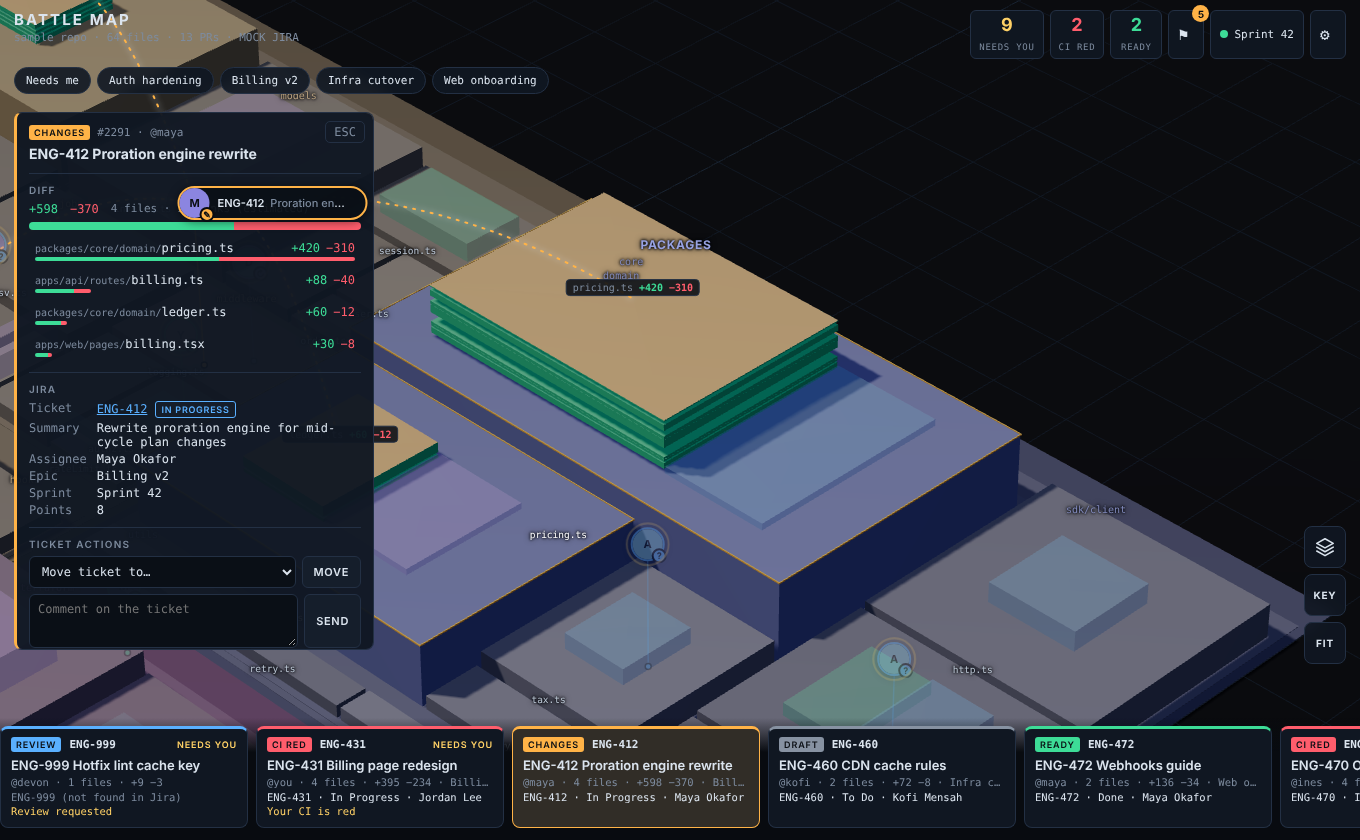
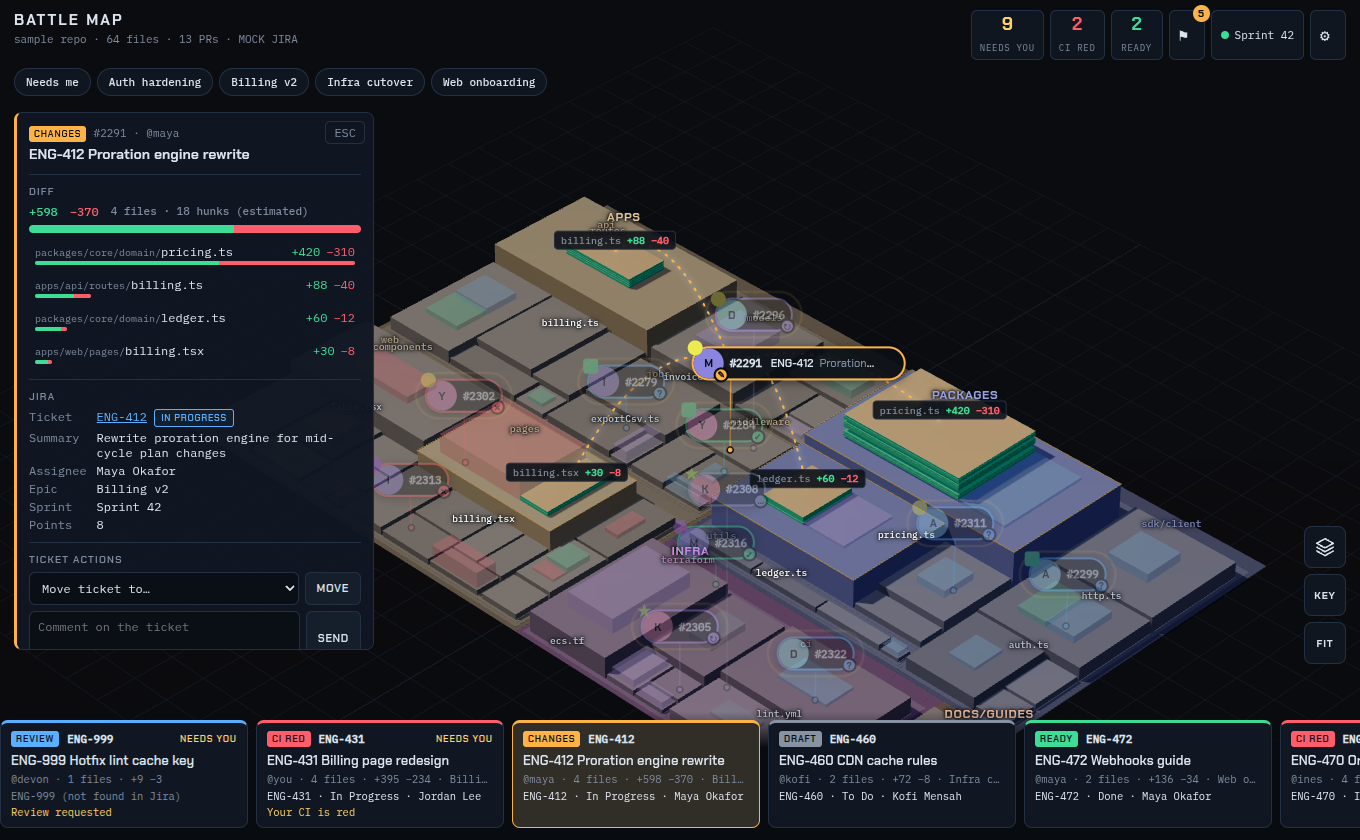
Docs: refresh screenshots and README for flags and tracking
Regenerated all screenshots (flags now show PR numbers and epic emblems,
the Layers menu has the watched-file toggle) and added two for opt-in
tracking: the map with the WATCHING pill, cyan rims and rule tags, and the
track dialog. Screenshots come from e2e/shot2.mjs, which now writes to
SHOTS_DIR instead of a hardcoded /tmp, can set up tracking scenes (feed,
rule, pick) and uses the declared Playwright dependency. README: new
tracking section, development notes for e2e, TMPDIR and CI.

diff --git a/README.md b/README.md
@@ -104,12 +104,16 @@ web/main.js             panels, settings, Jira actions
 
 ## Choosing what to track
 
+![Opt-in tracking: the WATCHING pill, cyan rims on watched files, and a rule tag on each card](docs/screenshots/tracking.png)
+
 The feed is the pool of everything open; the map only draws what you track, so a busy monorepo stays readable. Your own PRs (Settings > Display > Identity) are always tracked. Everything else is opt-in, from **+ TRACK PRS** at the end of the PR tray:
 
 * **By link.** Paste a PR URL, `#123` or a number. If the PR is not in the feed yet, it is tracked as soon as it shows up.
 * **By author.** "Track everything maya opens", from the list or a rule.
 * **By path.** "Track any PR that touches `packages/billing/`". A plain path covers that file or folder, `*` stays inside one folder, `**` crosses folders. You can also click a file on the map and choose WATCH FILE or WATCH FOLDER. This is the one for teams that own part of a repo.
 * **From the list.** Every untracked open PR, most recently updated first, with a filter by text and author.
+
+![The track dialog: link, rules with live counts, and the untracked PRs in the feed](docs/screenshots/track-dialog.png)
 
 **Reminders, so rules never surprise you.** A cyan `◉ WATCHING` pill at the top lists your rules (click it to edit them). Every file a path rule covers gets a cyan rim on the map, even with no PR on it (Layers > Mark watched files turns that off). A PR that a rule tracked carries a cyan tag naming the rule, and a toast says so when a rule newly pulls PRs in.
 
@@ -128,10 +132,18 @@ Binds to 127.0.0.1. Writes need an `X-Battlemap` header and a matching Origin, a
 ## Development
 
 ```
+npm install      # also installs Playwright, which the e2e tests and screenshot script use
 npm test         # unit + server + scene wiring tests (no browser needed)
 npm run e2e      # drives the real UI in Chrome: Jira panels against the mock, then PR tracking end to end
-                 # (needs Playwright + Chrome; set TMPDIR to keep its scratch files somewhere of your choosing)
 ```
 
-`web/layout.js` (treemap) and `web/spires.js` (diff layer plan) are pure and unit tested; `web/scene.js` is the Three.js glue.
-`e2e/shot2.mjs` renders screenshots, for example `node e2e/shot2.mjs shot:overview` writes `/tmp/overview.png`.
+The e2e tests need Chrome (set `CHROME` if it is not at `/usr/bin/google-chrome`); they render WebGL in software, so they work on a machine with no GPU. They write scratch files to the system temp directory; set `TMPDIR` to put them elsewhere. CI runs both `npm test` and `npm run e2e`.
+
+`web/layout.js` (treemap), `web/spires.js` (diff layer plan) and `web/sigil.js` (flag identity) are pure and unit tested; `web/scene.js` is the Three.js glue. `server/watch.js` (what is tracked) is pure and unit tested too.
+
+The screenshots above are generated, not hand-made. `e2e/shot2.mjs` runs against the mock Jira and sets up the scenes itself:
+
+```
+SHOTS_DIR=docs/screenshots node e2e/shot2.mjs shot:overview
+SHOTS_DIR=docs/screenshots node e2e/shot2.mjs feed:sample rule:author:kofi rule:path:packages/core/domain/ pick:#2279 feed:sample-without-#2284 wait:2500 shot:tracking
+```
